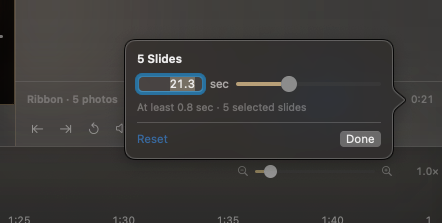
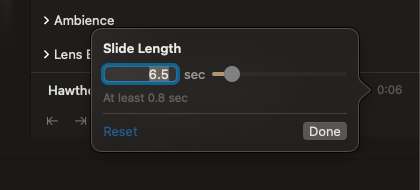
Docs 1.1: current right-click menus, large-import prompt shot

diff --git a/library.md b/library.md
@@ -157,27 +157,26 @@ Whole groups move together until you select one seat. See [Organizing](organizin
 
 On a photo or video (not empty space):
 
-![Grouped seat menu: Photo 1 of 5 · Ribbon, Entire group, Ungroup](../.gitbook/assets/library-context-ungroup.png)
-
 - **Slide Transition** or **Random**
 - **Group Transition** — two or more singles, or change group type
-- **Ungroup**
 - **Lens Effect** — Studio only
-- **Rotate & Flip**
+- Videos: **Auto Trim**, **Reset Video Duration**, **Mute Video Sound**
 - **Set Duration…** (**⌘D**)
 
-![Set Duration… for selected slides](../.gitbook/assets/set-duration.png)
+![Slide Length for the selected slide](../.gitbook/assets/set-duration.png)
 
-- Videos: mute, **Auto Trim**, **Reset Video Duration**
+- **Rotate & Flip**
 - **Set Caption** (**⇧⌘C**), **Clear Caption**
 - **Move to Outtakes** / **Move to Takes**
 - **Remove from Project** (**⌘⌫**)
 
-Grouped seat: menu for **that photo** first. **Entire group ▸** for all seats. **Ungroup** nearby.
+Grouped seat: the header shows **Photo 2 of 5 · Ribbon**. The top of the menu is for **that photo**, plus **Auto Trim videos in this group** and **Reset Video Durations in this group**. Below it: **Group Transition**, **Entire group ▸** for all seats, and **Ungroup**.
+
+![Grouped seat menu: Photo 2 of 5 · Ribbon, Group Transition, Entire group, Ungroup](../.gitbook/assets/library-context-ungroup.png)
 
 On a group, **Set Duration…** sets the length of the **whole group**, the same as dragging its edge on the **Timeline**. It works from any seat, and from the Inspector length field.
 
-![Entire group ▸: Rotate & Flip, Set Duration…, Move N to Outtakes, Remove N](../.gitbook/assets/library-entire-group-menu.png)
+![Entire group ▸: Rotate & Flip, Lens Effect, Set Duration…, Move 5 photos to Outtakes, Remove 5 photos](../.gitbook/assets/library-entire-group-menu.png)
 
 Intro: **Set Intro Title**, **Set Background Image**, **Disable Intro Slide**, (Studio) **Lens Effect**, [Reset Center of Interest](preview.md#center-of-interest).
 

diff --git a/timeline.md b/timeline.md
@@ -51,9 +51,8 @@ Select a clip and drag **edge grips**:
 
 Right-click a photo or video on the photo lane:
 
-![Timeline grouped-seat menu: Photo 4 of 5 · Carousel, Entire group collapsed](../.gitbook/assets/timeline-grouped-seat-menu.png)
-
 - **Slide Transition** — pick a cut or **Random** (groups: **Group Transition** / **Ungroup**)
+- **Lens Effect** — Studio only
 - **Rotate & Flip**
 - **Set Duration…** (**⌘D**). Videos: **Timing** submenu with duration and **Set Start Here** / **Set End Here**
 - **Set Caption** (**⇧⌘C**)
@@ -61,7 +60,9 @@ Right-click a photo or video on the photo lane:
 - **Move to Outtakes**
 - **Remove from Project** (**⌘⌫**)
 
-On a **grouped seat**, the menu applies to **that photo**. Header shows **Photo 2 of 4 · Photo Stack**. **Entire group ▸** has rotate, lens, **Set Duration…**, **Move N photos to Outtakes**, **Remove N**. **Ungroup** is nearby.
+On a **grouped seat**, the top of the menu applies to **that photo**, plus **Auto Trim videos in this group** and **Reset Video Durations in this group**. Header shows **Photo 2 of 5 · Ribbon**. Below: **Group Transition**, **Entire group ▸** (rotate, lens, **Set Duration…**, **Move N photos to Outtakes**, **Remove N**), and **Ungroup**.
+
+![Timeline grouped-seat menu: Photo 2 of 5 · Ribbon](../.gitbook/assets/timeline-grouped-seat-menu.png)
 
 **Set Duration…** on a group opens **Group Length**. It sets the whole group, the same as dragging the group's edge. A video seat inside does not cap it. Typing a length in the Inspector does the same.
 
@@ -77,7 +78,7 @@ Right-click video or music for **Set Start Here** / **Set End Here** and reset d
 
 Inspector clip footer has the same trims for selected video or soundtrack.
 
-![Set Duration… for selected slides](../.gitbook/assets/set-duration.png)
+![Slide Length for the selected slide](../.gitbook/assets/set-duration.png)
 
 **Auto Caption** is not on this menu — use **Library** captions bubble, **Edit**, Style → Captions, or **Generate**.
 

diff --git a/motion/groups.md b/motion/groups.md
@@ -14,7 +14,7 @@ If you drag slides by hand, group windows **pin** to those photos until you sort
 
 Right-click a grouped photo for **that seat**. **Entire group ▸** (near **Ungroup**) applies rotate, lens, duration, or move/remove to all seats. Right-click two or more singles → **Group Transition**. See [Library](../library.md#right-click-a-slide).
 
-![Grouped seat menu: Photo 1 of 5 · Ribbon, Entire group, Ungroup](../.gitbook/assets/library-context-ungroup.png)
+![Grouped seat menu: Photo 2 of 5 · Ribbon, Group Transition, Entire group, Ungroup](../.gitbook/assets/library-context-ungroup.png)
 
 Videos in a group play in their seat. Unmuted video audio plays only while that card is the hero.
 

diff --git a/preview.md b/preview.md
@@ -89,7 +89,7 @@ On the **intro**, a single click on the still sets the same aim. **Double-click*
 
 ## Rotate while paused
 
-Right-click the paused photo or video → **Rotate & Flip** → **Rotate Clockwise** / **Rotate Counter Clockwise** / **Flip Horizontal** / **Flip Vertical**. These options are hidden while playing.
+Right-click the paused photo or video → **Rotate Clockwise** / **Rotate Counter Clockwise** / **Flip Horizontal** / **Flip Vertical**. These options are hidden while playing.
 
 On the intro: **Set Intro Title**, **Set Background Image**, **Disable Intro Slide**, and (Studio) **Lens Effect**. With a background still, **Rotate & Flip** turns the cover photo.
 

diff --git a/organizing.md b/organizing.md
@@ -65,7 +65,7 @@ First click on a group selects the **whole window**. Drag moves every seat toget
 
 Right-click a grouped photo for **that seat**. **Entire group ▸** holds actions for all seats. Right-click two or more singles → **Group Transition**. **Ungroup** splits a group. See [Library](library.md#right-click-a-slide).
 
-![Entire group ▸: Rotate & Flip, Set Duration…, Move N to Outtakes, Remove N](../.gitbook/assets/library-entire-group-menu.png)
+![Entire group ▸: Rotate & Flip, Lens Effect, Set Duration…, Move 5 photos to Outtakes, Remove 5 photos](../.gitbook/assets/library-entire-group-menu.png)
 
 ### In-group photos and videos
 

diff --git a/long-story-short.md b/long-story-short.md
@@ -25,6 +25,8 @@ If the show already has slides, it asks first: **Rebuild the show?** **Continue*
 
 When an import would put more than **150** photos and videos on the show, MemoryString asks first: **That would make a N-photo show**.
 
+![That would make a 2359-photo show: Long story short, Import all, Cancel](../.gitbook/assets/long-story-short-large-import.png)
+
 - **Long story short** — pick the best ones for a shareable movie
 - **Import all** — put everything on the show
 - **Cancel** — import nothing
